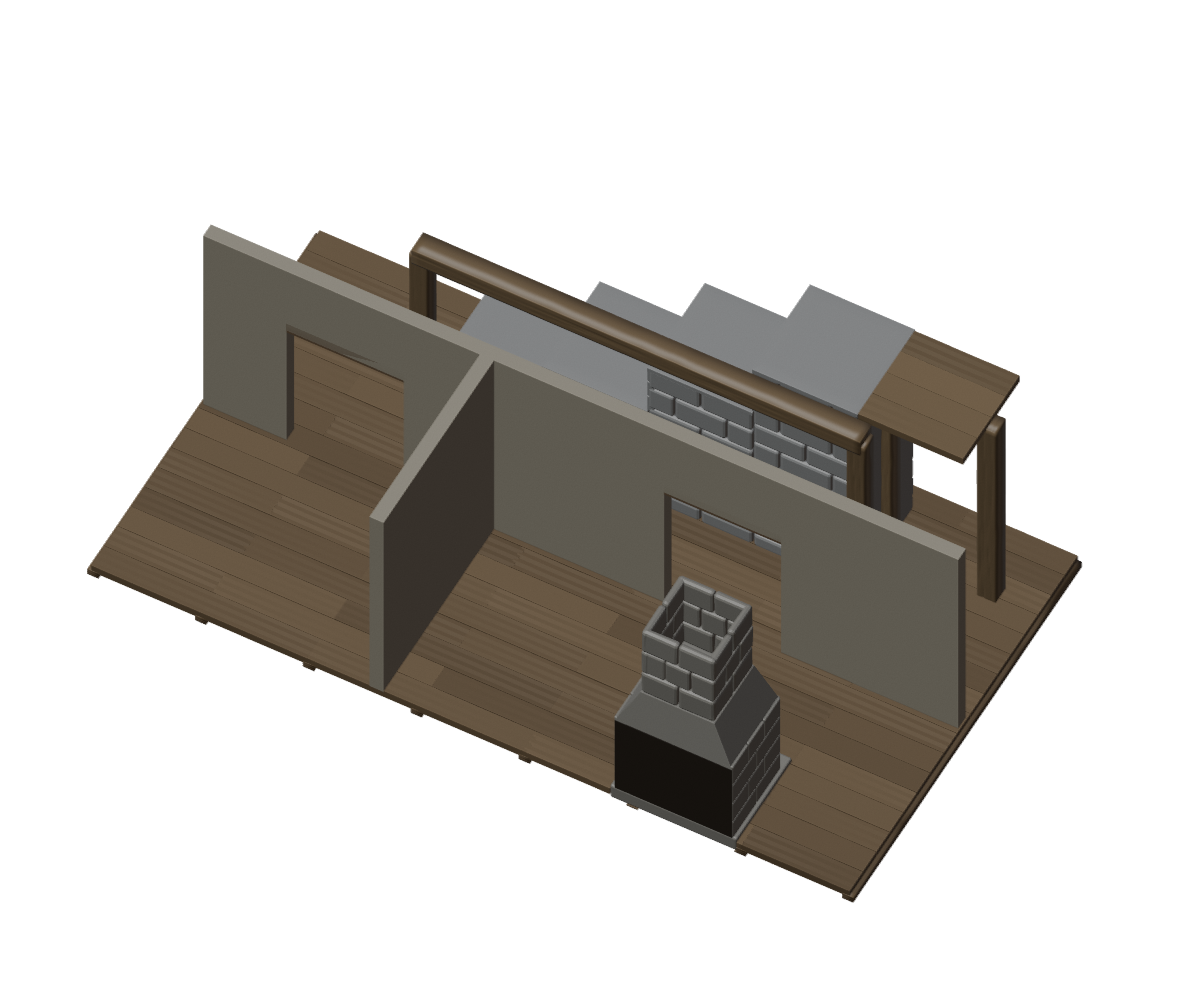
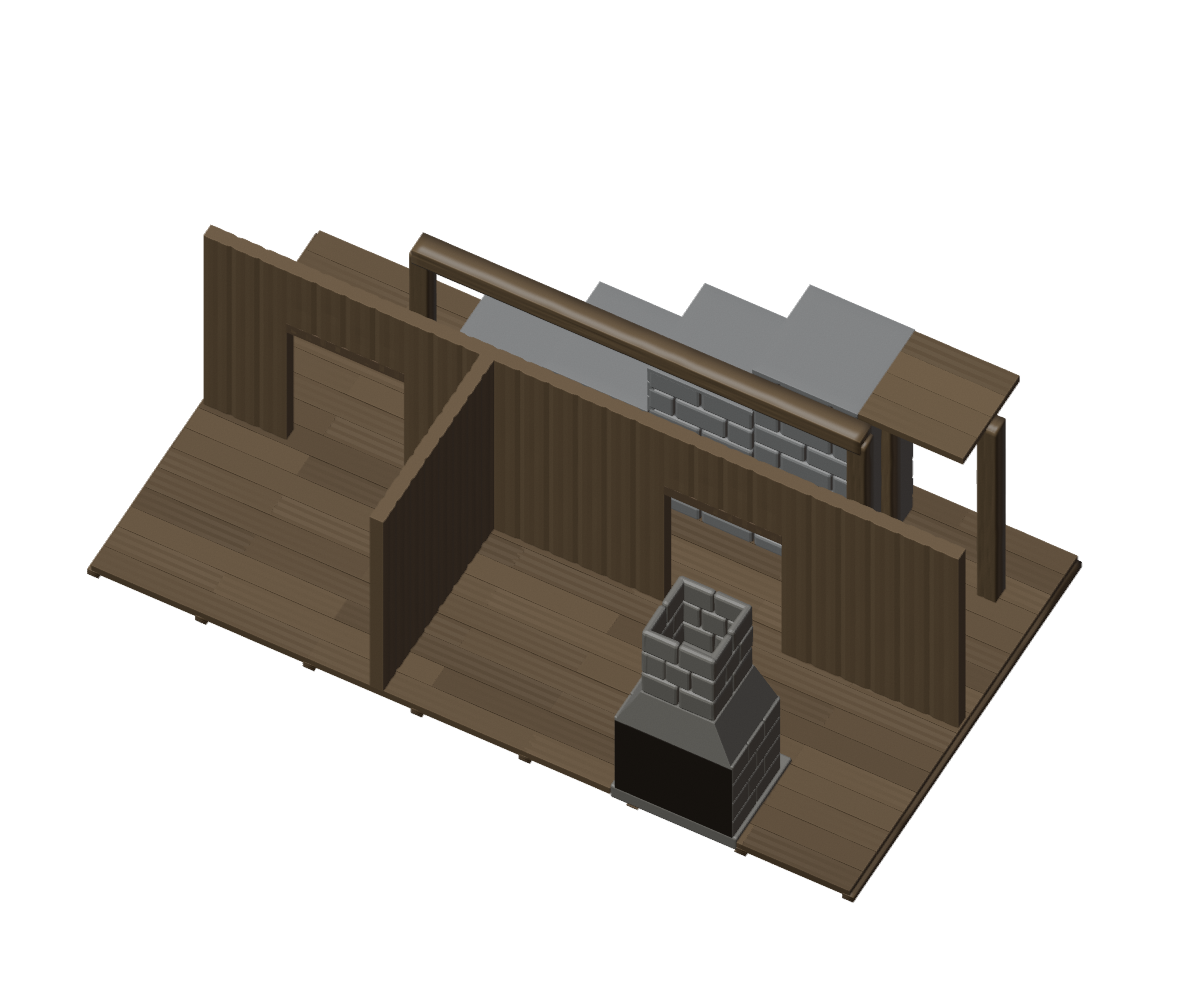
Texturizar tabiques en madera y estudiar destruccion modular

Changed region(s): [[0.1542, 0.217, 0.8017, 0.744]]

diff --git a/src/ruinas_panel/structure/interiors.py b/src/ruinas_panel/structure/interiors.py
@@ -1,14 +1,50 @@
-"""Tabiques de planta baja derivados del plano previo."""
+"""Tabiques de madera de planta baja derivados del plano previo."""
+import math
+import random
 from .. import meta
 from ..geometry import primitives
 from . import spatial
 
 
+def wood_panel(coll,mat,part,a,b,z0,z1,grain,seed):
+    'IA: Panel único cerrado de 3 mm; juntas y veta física en ambas caras, sin booleanos ni tablas sueltas; espesor mínimo 2,3 mm.'
+    import bmesh
+    from ..geometry import surfaces
+    boards=max(1,round((b-a)/6));nx=boards*6;nz=max(2,min(20,math.ceil((z1-z0)/3)))
+    rng=random.Random(seed);phases=[rng.uniform(0,math.tau) for _ in range(boards)]
+    verts=[];faces=[];uvs=[];n=(nx+1)*(nz+1)
+    for side in (-1,1):
+        for j in range(nz+1):
+            t=j/nz;z=z0+(z1-z0)*t
+            for i in range(nx+1):
+                u=i/nx;along=a+(b-a)*u;board=min(boards-1,i//6);local=(i%6)/6
+                phase=phases[board]+(0 if side<0 else .7)
+                seam=.18 if i%6==0 and 0<i<nx else 0
+                fiber=max(0,math.cos(local*math.tau*2+.25*math.sin(t*9+phase)))**6
+                knot=math.exp(-((local-.5)/.22)**2-((t-.45-.15*math.sin(phase))/.13)**2)
+                relief=min(.35,seam+grain*(.14*fiber+.12*knot))
+                cross=part['fixed']+side*(1.5-relief)
+                verts.append((along,cross,z) if part['axis']=='x' else (cross,along,z))
+                uvs.append((u*boards,(z-z0)/8))
+    for side in range(2):
+        for j in range(nz):
+            for i in range(nx):
+                k=side*n+j*(nx+1)+i;faces.append((k,k+1,k+nx+2,k+nx+1))
+    border=list(range(nx+1))+[j*(nx+1)+nx for j in range(1,nz+1)]+[nz*(nx+1)+i for i in range(nx-1,-1,-1)]+[j*(nx+1) for j in range(nz-1,0,-1)]
+    for i,k in enumerate(border):
+        q=border[(i+1)%len(border)];faces.append((k,q,q+n,k+n))
+    ob=primitives.mesh_obj('Revoco · tabique interior',verts,faces,coll,mat)
+    bm=bmesh.new();bm.from_mesh(ob.data);bmesh.ops.recalc_face_normals(bm,faces=list(bm.faces));bm.to_mesh(ob.data);bm.free()
+    surfaces.grain_uv(ob,uvs)
+    ob['partition_finish']='WOOD';ob['minimum_thickness_mm']=2.3
+    return ob
+
+
 def build(coll,p,scene):
-    'IA: Tabiques de revoco de 3 mm con pasos y dinteles; cimentados en planta baja, coronación limitada por el daño espacial existente.'
+    'IA: Tabiques de madera de 3 mm con veta física y pasos conservados; coronación limitada por el daño espacial existente.'
     plan=meta.get(scene,'plano_interior',{})
     if not plan or 'error' in plan:return
-    mat=primitives.material('Revoco · interior',(.64,.58,.46))
+    mat=primitives.material('Madera · interior',(.37,.255,.145))
     wood=primitives.material('Madera · tabique',(.30,.20,.12))
     bottom=3 if p.ground_floor else .7;top=min(p.height,55.2)
     for index,part in enumerate(plan['partitions']):
@@ -22,7 +58,7 @@ def build(coll,p,scene):
             if z1-z0<1:continue
             if part['axis']=='x':bounds=(a,b,y-1.5,y+1.5)
             else:bounds=(x-1.5,x+1.5,a,b)
-            ob=primitives.block('Revoco · tabique interior',*bounds,z0,z1,coll,mat)
+            ob=wood_panel(coll,mat,part,a,b,z0,z1,p.wood_grain,p.seed+71000+index*193+round(a*11))
             ob['interior_partition']=True;ob['partition_id']=index
             if over:
                 ob=primitives.block('Madera · dintel interior',*bounds,z0-.6,min(z1,z0+2),coll,wood)

diff --git a/tools/package_v032.py b/tools/package_v032.py
@@ -8,17 +8,17 @@ def run():
     'IA: Empaqueta addon, ejemplo y evidencia tras comprobar informes; valida ZIP y manifiesto SHA256.'
     report=json.loads((ROOT/'reports/v032.json').read_text(encoding='utf-8'))
     assert len(report)==3 and all(not item['closure']['open_edges'] for item in report)
-    for log,marker in [('v032.log','V032_PASSED'),('tile_fit.log','TILE_FIT_PASSED'),('roof_v032_after.log','ROOF_SURFACE_PASSED')]:
+    for log,marker in [('wood_interiors.log','V032_PASSED'),('tile_fit.log','TILE_FIT_PASSED'),('roof_v032_after.log','ROOF_SURFACE_PASSED')]:
         assert marker in (ROOT/'reports'/log).read_text(encoding='utf-8',errors='replace')
-    files=['dist/ruinas_panel_v032.zip','dist/ruina_v032.blend','reports/v032_exterior.png','reports/v032_interior.png','reports/v032_worn.png','reports/v032.json','docs/V032.md']
+    files=['dist/ruinas_panel_v0321.zip','dist/ruina_v032.blend','reports/v032_exterior.png','reports/v032_interior.png','reports/v032_worn.png','reports/v032.json','docs/V032.md','docs/DESTRUCTION_STUDY.md']
     manifest={}
-    target=ROOT/'dist/ruinas_v032_completo.zip'
+    target=ROOT/'dist/ruinas_v0321_completo.zip'
     with zipfile.ZipFile(target,'w',zipfile.ZIP_DEFLATED) as archive:
         for item in files:
             path=ROOT/item;data=path.read_bytes();archive.writestr(path.name,data)
             manifest[path.name]=hashlib.sha256(data).hexdigest()
         archive.writestr('SHA256.json',json.dumps(manifest,indent=2))
-        archive.writestr('LEEME.txt','Ruinas 0.32. Instala ruinas_panel_v032.zip y abre ruina_v032.blend.\nLa vista interior es un recorte de inspección; el blend conserva la casa completa.\nConsulta V032.md para validación y límites de impresión.\n')
+        archive.writestr('LEEME.txt','Ruinas 0.32.1. Instala ruinas_panel_v0321.zip y abre ruina_v032.blend.\nLa vista interior es un recorte de inspección; el blend conserva la casa completa.\nConsulta V032.md para validación y límites de impresión.\n')
     with zipfile.ZipFile(target) as archive:assert archive.testzip() is None
     print('BUNDLE_PASSED',target)
 

diff --git a/tests/blender_wood_panel.py b/tests/blender_wood_panel.py
@@ -1,0 +1,29 @@
+"""Relieve imprimible de tabiques sin booleanos."""
+import sys
+from pathlib import Path
+import bpy,bmesh
+ROOT=Path(__file__).resolve().parents[1];sys.path.insert(0,str(ROOT/'src'))
+from ruinas_panel.structure.interiors import wood_panel
+from ruinas_panel.geometry import primitives
+
+
+def run():
+    'IA: Dos orientaciones y veta 0/1: malla cerrada tras triangular, caras positivas, mínimo 2,3 mm y topología constante.'
+    coll=bpy.data.collections.new('Wood test');bpy.context.scene.collection.children.link(coll)
+    mat=primitives.material('Madera · interior',(.37,.255,.145))
+    for axis in ('x','y'):
+        counts=[];coords=[]
+        for grain in (0,1):
+            ob=wood_panel(coll,mat,{'axis':axis,'fixed':10},0,42,3,54,grain,17)
+            bm=bmesh.new();bm.from_mesh(ob.data);bmesh.ops.triangulate(bm,faces=list(bm.faces))
+            assert all(e.is_manifold for e in bm.edges)
+            assert all(f.calc_area()>1e-8 for f in bm.faces)
+            assert bm.calc_volume()>0
+            bm.free();counts.append(len(ob.data.polygons));coords.append([tuple(v.co) for v in ob.data.vertices])
+            n=len(ob.data.vertices)//2;cross=1 if axis=='x' else 0
+            assert min(ob.data.vertices[i+n].co[cross]-ob.data.vertices[i].co[cross] for i in range(n))>=2.2999
+        assert counts[0]==counts[1] and coords[0]!=coords[1]
+    print('WOOD_PANEL_PASSED',flush=True)
+
+
+if __name__=='__main__':run()

diff --git a/dev.py b/dev.py
@@ -122,13 +122,13 @@ def pack(project=False):
     """IA: empaqueta únicamente fuentes del addon; excluye cachés, renders y pruebas del ZIP instalable."""
     check()
     out=ROOT/'dist';out.mkdir(exist_ok=True)
-    target=out/'ruinas_panel_v032.zip'
+    target=out/'ruinas_panel_v0321.zip'
     with zipfile.ZipFile(target,'w',zipfile.ZIP_DEFLATED) as archive:
         for file in sorted(SOURCE.rglob('*.py')):archive.write(file,file.relative_to(SOURCE.parent))
     with zipfile.ZipFile(target) as archive:assert archive.testzip() is None
     print('PACKAGED',target)
     if project:
-        bundle=out/'ruinas_desarrollo_v032.zip'
+        bundle=out/'ruinas_desarrollo_v0321.zip'
         files=[ROOT/'README.md',ROOT/'AGENTS.md',ROOT/'dev.py',ROOT/'.gitignore',target]
         for folder in ('src','tools','tests','docs','agent'):
             files.extend(p for p in (ROOT/folder).rglob('*') if p.is_file() and '__pycache__' not in p.parts and p.suffix!='.pyc')

diff --git a/src/ruinas_panel/__init__.py b/src/ruinas_panel/__init__.py
@@ -3,7 +3,7 @@
 bl_info = {
     'name': 'Ruinas — Muro de fantasía',
     'author': 'Codex',
-    'version': (0, 32, 0),
+    'version': (0, 32, 1),
     'blender': (5, 0, 0),
     'location': 'Vista 3D > N > Ruinas',
     'category': 'Add Mesh',

diff --git a/src/ruinas_panel/ui/panel.py b/src/ruinas_panel/ui/panel.py
@@ -33,7 +33,7 @@ def status_icon(status):
 
 
 class RUIN_PT_panel(bpy.types.Panel):
-    bl_label = 'Ruinas · v0.32'
+    bl_label = 'Ruinas · v0.32.1'
     bl_idname = 'RUIN_PT_panel'
     bl_space_type = 'VIEW_3D'
     bl_region_type = 'UI'

diff --git a/docs/DESTRUCTION_STUDY.md b/docs/DESTRUCTION_STUDY.md
@@ -1,0 +1,31 @@
+# Destrucción, física y exportación — estudio de 2026-10-04
+
+## Hallazgos del código local
+
+`services/export.py` ya fusiona copias por bandas de altura de 20 mm y lotes de hasta 60.000 caras. Después reduce los resultados mediante un árbol de uniones de hasta cuatro operandos. No hace una única operación indiscriminada sobre toda la casa. Las bandas actuales son lotes de cálculo; no son plantas desmontables.
+
+La validación final rechaza componentes desconectados apreciables. Una operación booleana puede terminar y aun así producir un resultado que no cumpla ese contrato. El remallado vóxel de respaldo puede perder detalle; tampoco es garantía de reparar apoyos inexistentes. Los errores de soporte, de topología y de coste deben medirse por separado.
+
+## Referencias primarias consultadas
+
+- [Cell Fracture, código de Blender](https://github.com/blender/blender-addons/blob/main/object_fracture_cell/fracture_cell_setup.py): `cell_fracture_boolean` intersecta cada celda con el objeto de origen, limpia geometría y puede separar islas. Es útil para fracturar una pieza individual; no elimina la necesidad de booleanas. Este repositorio es un archivo histórico, no una comprobación de compatibilidad con Blender 5.2.
+- [Bullet Constraints Builder](https://github.com/KaiKostack/bullet-constraints-builder): crea conexiones entre cuerpos y umbrales de rotura según materiales, representando dependencias entre pilares, muros, vigas y losas. Su planteamiento respalda modelar uniones/apoyos antes de simular. No se ha instalado ni validado el complemento en nuestro Blender.
+- [Consejos oficiales de cuerpos rígidos](https://docs.staging.blender.org/manual/en/latest/physics/rigid_body/tips.html): el índice consultado del manual 5.2 advierte de inestabilidad con objetos pequeños y recomienda aplicar escala cuando no se anima. La página completa no fue accesible desde la herramienta; no se basa ninguna cifra de calibración en ella.
+
+No se ha copiado código de estos proyectos ni se ha incorporado un motor nuevo.
+
+## Recomendación para Ruinas (inferencia de diseño)
+
+Conservar la construcción por piezas. Separar tres representaciones: construcción intacta con apoyos, copias simplificadas de simulación y geometría detallada para impresión. Simular no garantiza superficies fusionadas ni contacto suficiente para resina; una pieza apoyada visualmente puede seguir siendo un componente desconectado.
+
+1. Identificar módulos semánticos: planta baja, planta alta, cubierta y escombros. Asignarlos durante construcción, sin inferirlos solo del centro de cada objeto. Resolver explícitamente elementos que cruzan plantas: escalera, pilares y chimenea.
+2. Añadir conectividad y apoyos. Una pérdida de soporte debe afectar a lo que descansa sobre él antes de añadir restos. Conservar un modo determinista sin física.
+3. Prototipar física únicamente sobre una pared, una viga y un paño de forjado, con colisionadores simplificados. Calibrar escala, márgenes, pasos e iteraciones; evitar solapes iniciales. Hornear transformaciones sobre copias y aplicarlas a la representación detallada. No simular miles de caras de veta.
+4. Exportar módulos imprimibles independientes, cada uno con cierre, espesor y conectividad comprobados. Diseñar superficies de asiento y encajes cuando se adopten plantas desmontables. No cortar automáticamente la casa final por alturas: podría cortar el hogar o generar piezas sin apoyo.
+5. Comparar el exportador actual con lotes por vecindad espacial y presupuesto de caras, validando cada etapa. Un orden secuencial sobre un acumulado creciente puede ser más caro que un árbol; no se presupone una mejora por reducir el número de operandos a dos.
+
+## Experimento propuesto, todavía no implementado
+
+Mismos edificios, semillas, calidades y daños: (A) exportación actual, (B) módulos semánticos, (C) módulos y árbol por vecindad. Registrar tiempo por etapa, pico de memoria, caras, componentes, cierre después de triangulación y pérdida de relieve. Detener y conservar el primer lote que falla; nunca borrar fragmentos relevantes para aparentar éxito.
+
+Aceptar física solo si mejora el aspecto del derrumbe sin empeorar control, reproducibilidad ni preparación imprimible. Empezar por asentar escombros locales; evaluar después derrumbes de forjado. No reemplazar aún toda la destrucción ni prometer que la física solucionará la exportación.

diff --git a/README.md b/README.md
@@ -10,7 +10,7 @@ bajantes por secciones y planos interiores iniciales. Entrega y límites en
 
 ## Usarlo en Blender
 
-**Uso normal:** guía completa en [USERGUIDE.md](USERGUIDE.md). En resumen: instala `dist/ruinas_panel_v032.zip` desde Preferencias → Complementos → Instalar desde disco, actívalo y abre Vista 3D → N → Ruinas. Puedes abrir un .blend de v0.20: conserva los campos guardados. No ejecutes su antiguo `generador_muro.py`, porque volvería a registrar la versión anterior.
+**Uso normal:** guía completa en [USERGUIDE.md](USERGUIDE.md). En resumen: instala `dist/ruinas_panel_v0321.zip` desde Preferencias → Complementos → Instalar desde disco, actívalo y abre Vista 3D → N → Ruinas. Puedes abrir un .blend de v0.20: conserva los campos guardados. No ejecutes su antiguo `generador_muro.py`, porque volvería a registrar la versión anterior.
 
 **Desarrollo:** abre `tools/load_in_blender.py` como archivo en el editor de texto de Blender y pulsa Ejecutar script. Repite tras editar un módulo: limpia callbacks y caché, recarga el paquete y mantiene los parámetros guardados. No es necesario volver a empaquetar ni reiniciar Blender. Usa solo una copia del addon activa.
 

diff --git a/docs/STATUS.md b/docs/STATUS.md
@@ -1,5 +1,21 @@
 # Estado del proyecto
 
+## v0.32.1 — tabiques de madera
+
+Tabiques con juntas y veta geométrica por ambas caras, sin booleanas ni tablas
+sueltas; espesor mínimo 2,3 mm. Veta responde a `wood_grain` sin cambiar topología.
+Pruebas de triangulación, cierre, espesor y dos orientaciones en
+`tests/blender_wood_panel.py`; integración y caché en los tres planos correctas.
+Caso de tres estancias: 276.327 → 283.159 caras expandidas (+2,47 %),
+5,62 → 5,67 s en la medición realizada con los mismos ajustes. No es un benchmark
+de rendimiento estadístico. Pruebas generales sin cambios en sus referencias.
+
+Estudio de alternativas en [DESTRUCTION_STUDY.md](DESTRUCTION_STUDY.md):
+se recomienda evaluar módulos semánticos por plantas y física sobre copias
+simplificadas. No se ha cambiado el exportador ni implementado esa física.
+
+Entrega actual: `dist/ruinas_v0321_completo.zip`; addon `ruinas_panel_v0321.zip`.
+
 ## v0.32 — 2026-10-04
 
 Tejas alineadas y orientadas por pendiente, encuentro cerámico de chimenea,

diff --git a/docs/V032.md b/docs/V032.md
@@ -1,5 +1,8 @@
 # v0.32 — cubierta, accesorios y primeros planos
 
+Revisión vigente 0.32.1: tabiques de madera con relieve en ambas caras, sin
+booleanas adicionales; estudio de destrucción en `DESTRUCTION_STUDY.md`.
+
 ## Cambios
 
 - Medias cañas orientadas en un marco perpendicular al eje 3D de la pieza. Filas alineadas, cola estrecha y 30% de solape longitudinal nominal; elevación de boca para encajar sobre la cola inferior. Cumbrera con el mismo criterio.
@@ -26,4 +29,4 @@ En los escenarios de dos plantas aparecen caras diminutas en piedras de la pared
 
 ## Entrega
 
-Instalar `dist/ruinas_panel_v032.zip`. Ejemplo editable: `dist/ruina_v032.blend`. Paquete conjunto: `dist/ruinas_v032_completo.zip`. Las fuentes editables siguen exclusivamente en `src/ruinas_panel/`.
+Instalar `dist/ruinas_panel_v0321.zip`. Ejemplo editable: `dist/ruina_v032.blend`. Paquete conjunto: `dist/ruinas_v0321_completo.zip`. Las fuentes editables siguen exclusivamente en `src/ruinas_panel/`.

diff --git a/USERGUIDE.md b/USERGUIDE.md
@@ -16,7 +16,7 @@ Ruinas genera muros de mampostería en ruinas para miniaturas de 28 a 35 mm, lis
 
 ## Instalación
 
-1. En Blender 5.0 o posterior: **Editar → Preferencias → Complementos → Instalar desde disco** y elige `dist/ruinas_panel_v032.zip`.
+1. En Blender 5.0 o posterior: **Editar → Preferencias → Complementos → Instalar desde disco** y elige `dist/ruinas_panel_v0321.zip`.
 2. Activa **Ruinas — Muro de fantasía**.
 3. Abre la barra lateral de la Vista 3D (tecla **N**) y la pestaña **Ruinas**.
 
